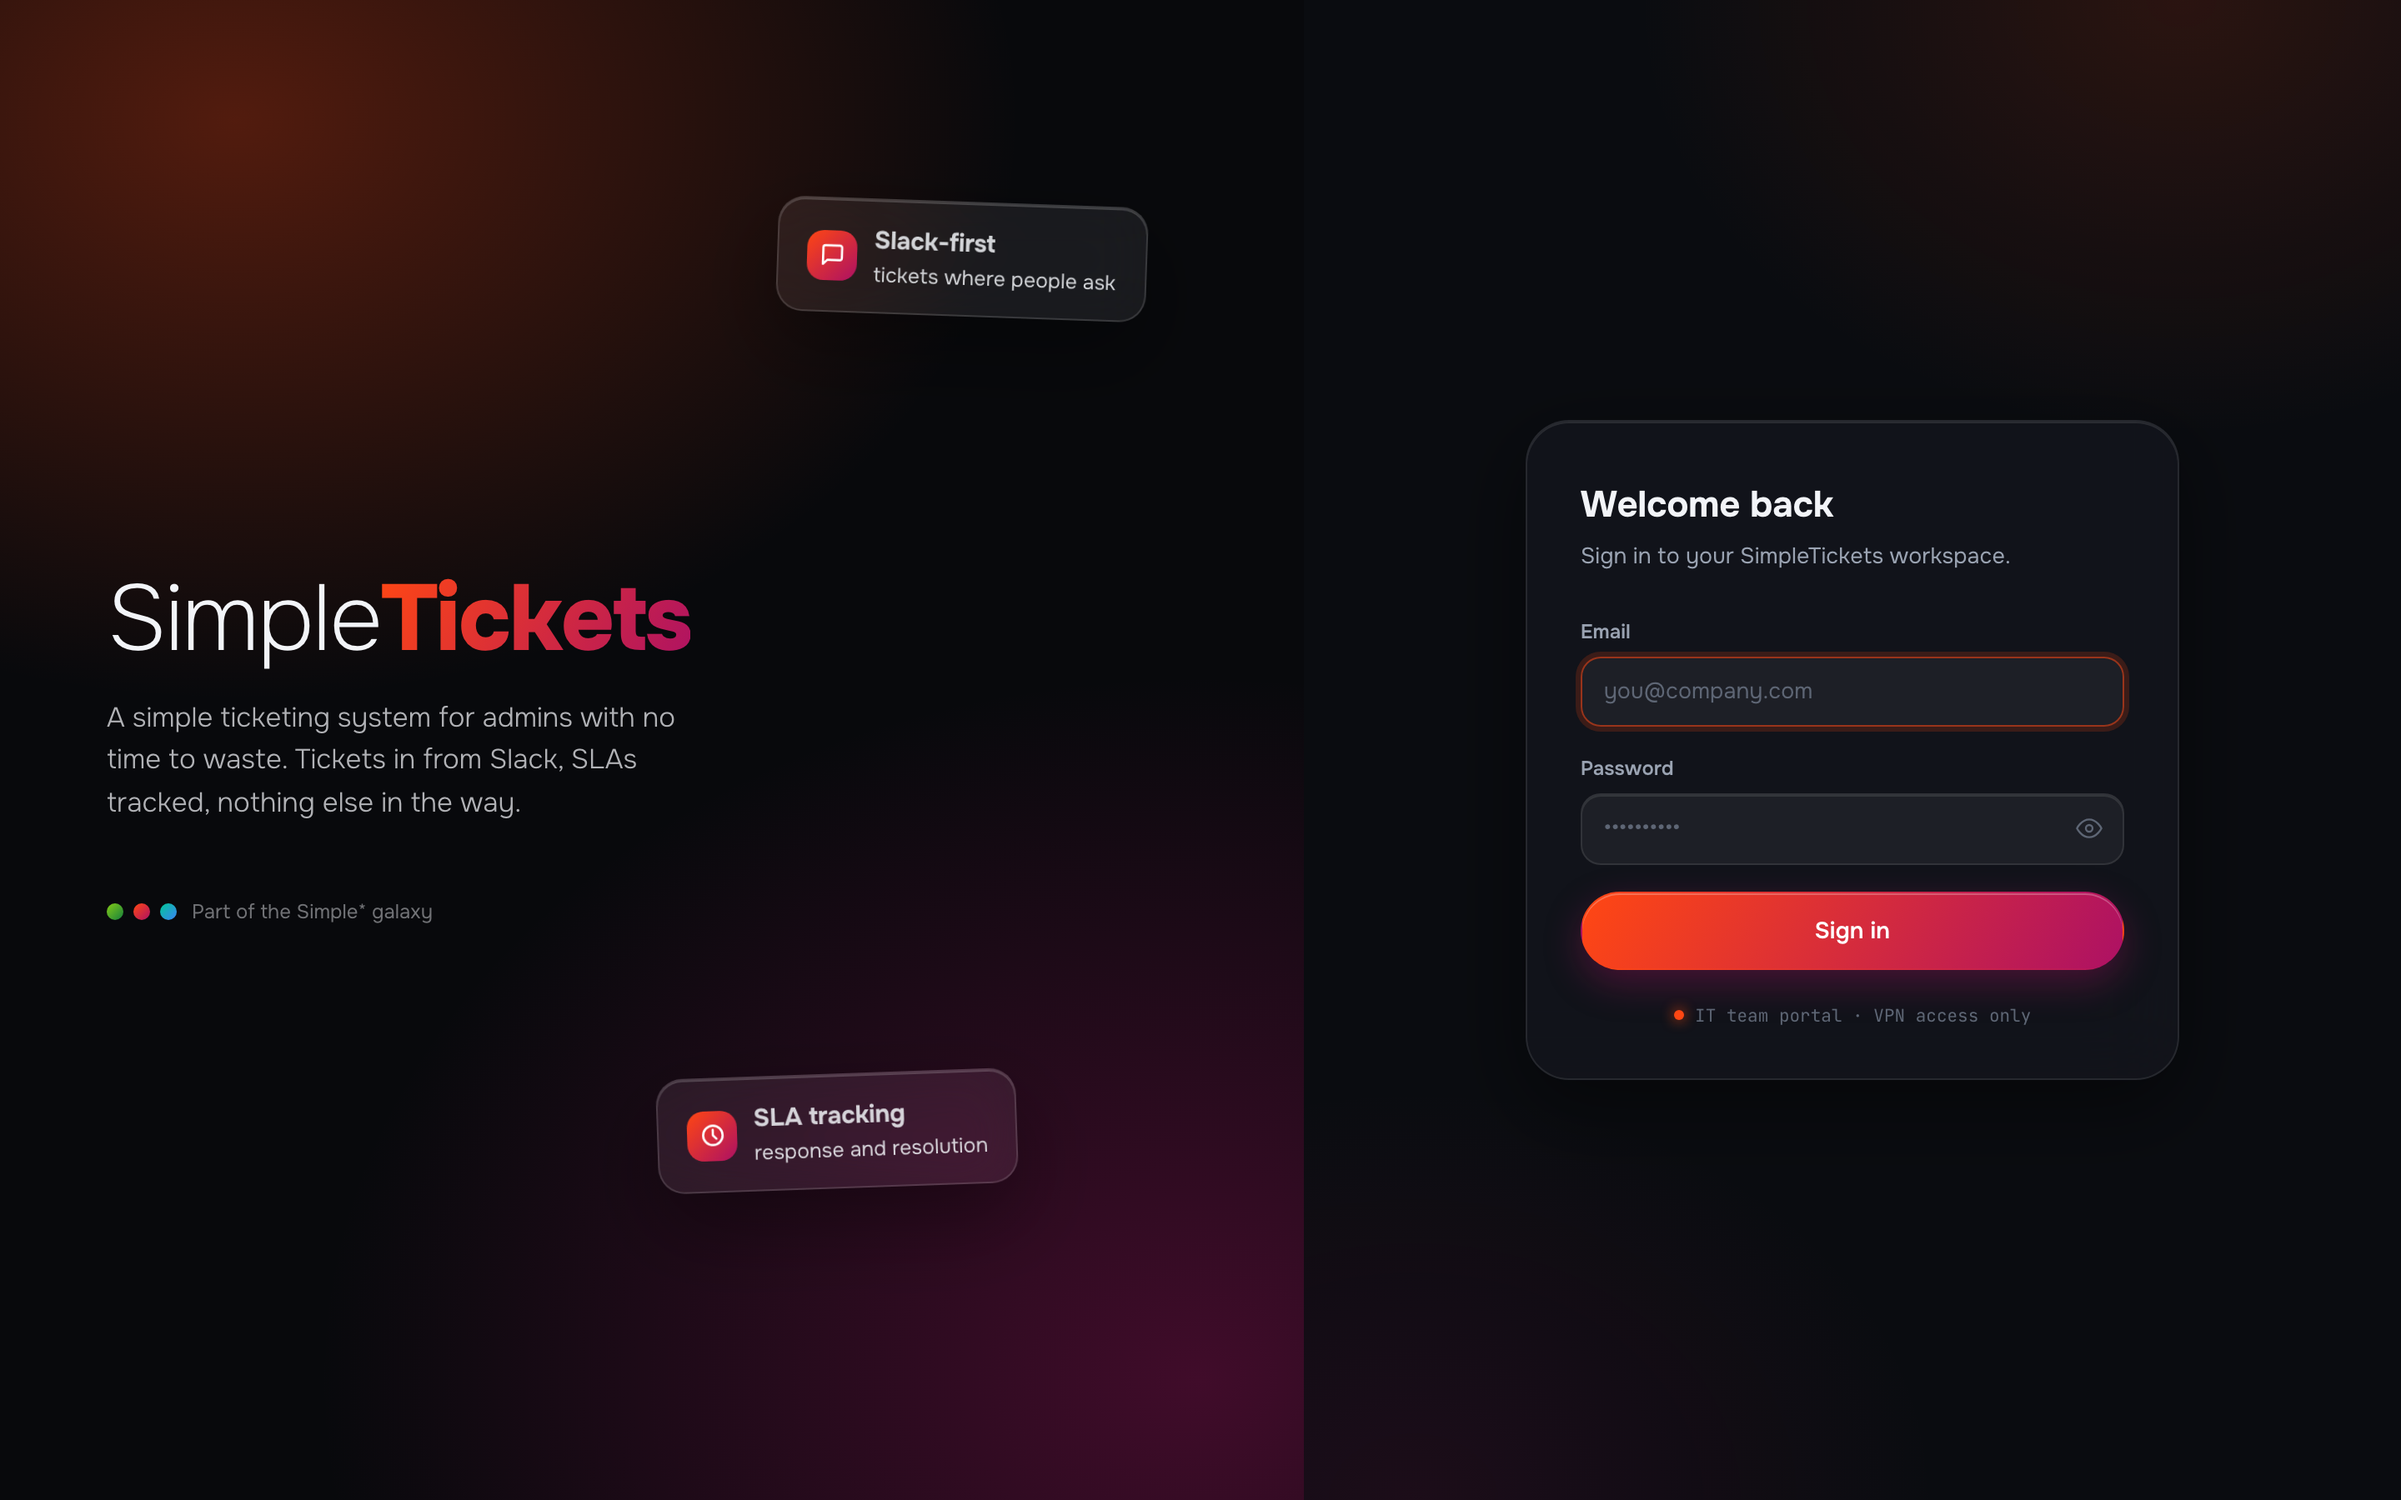
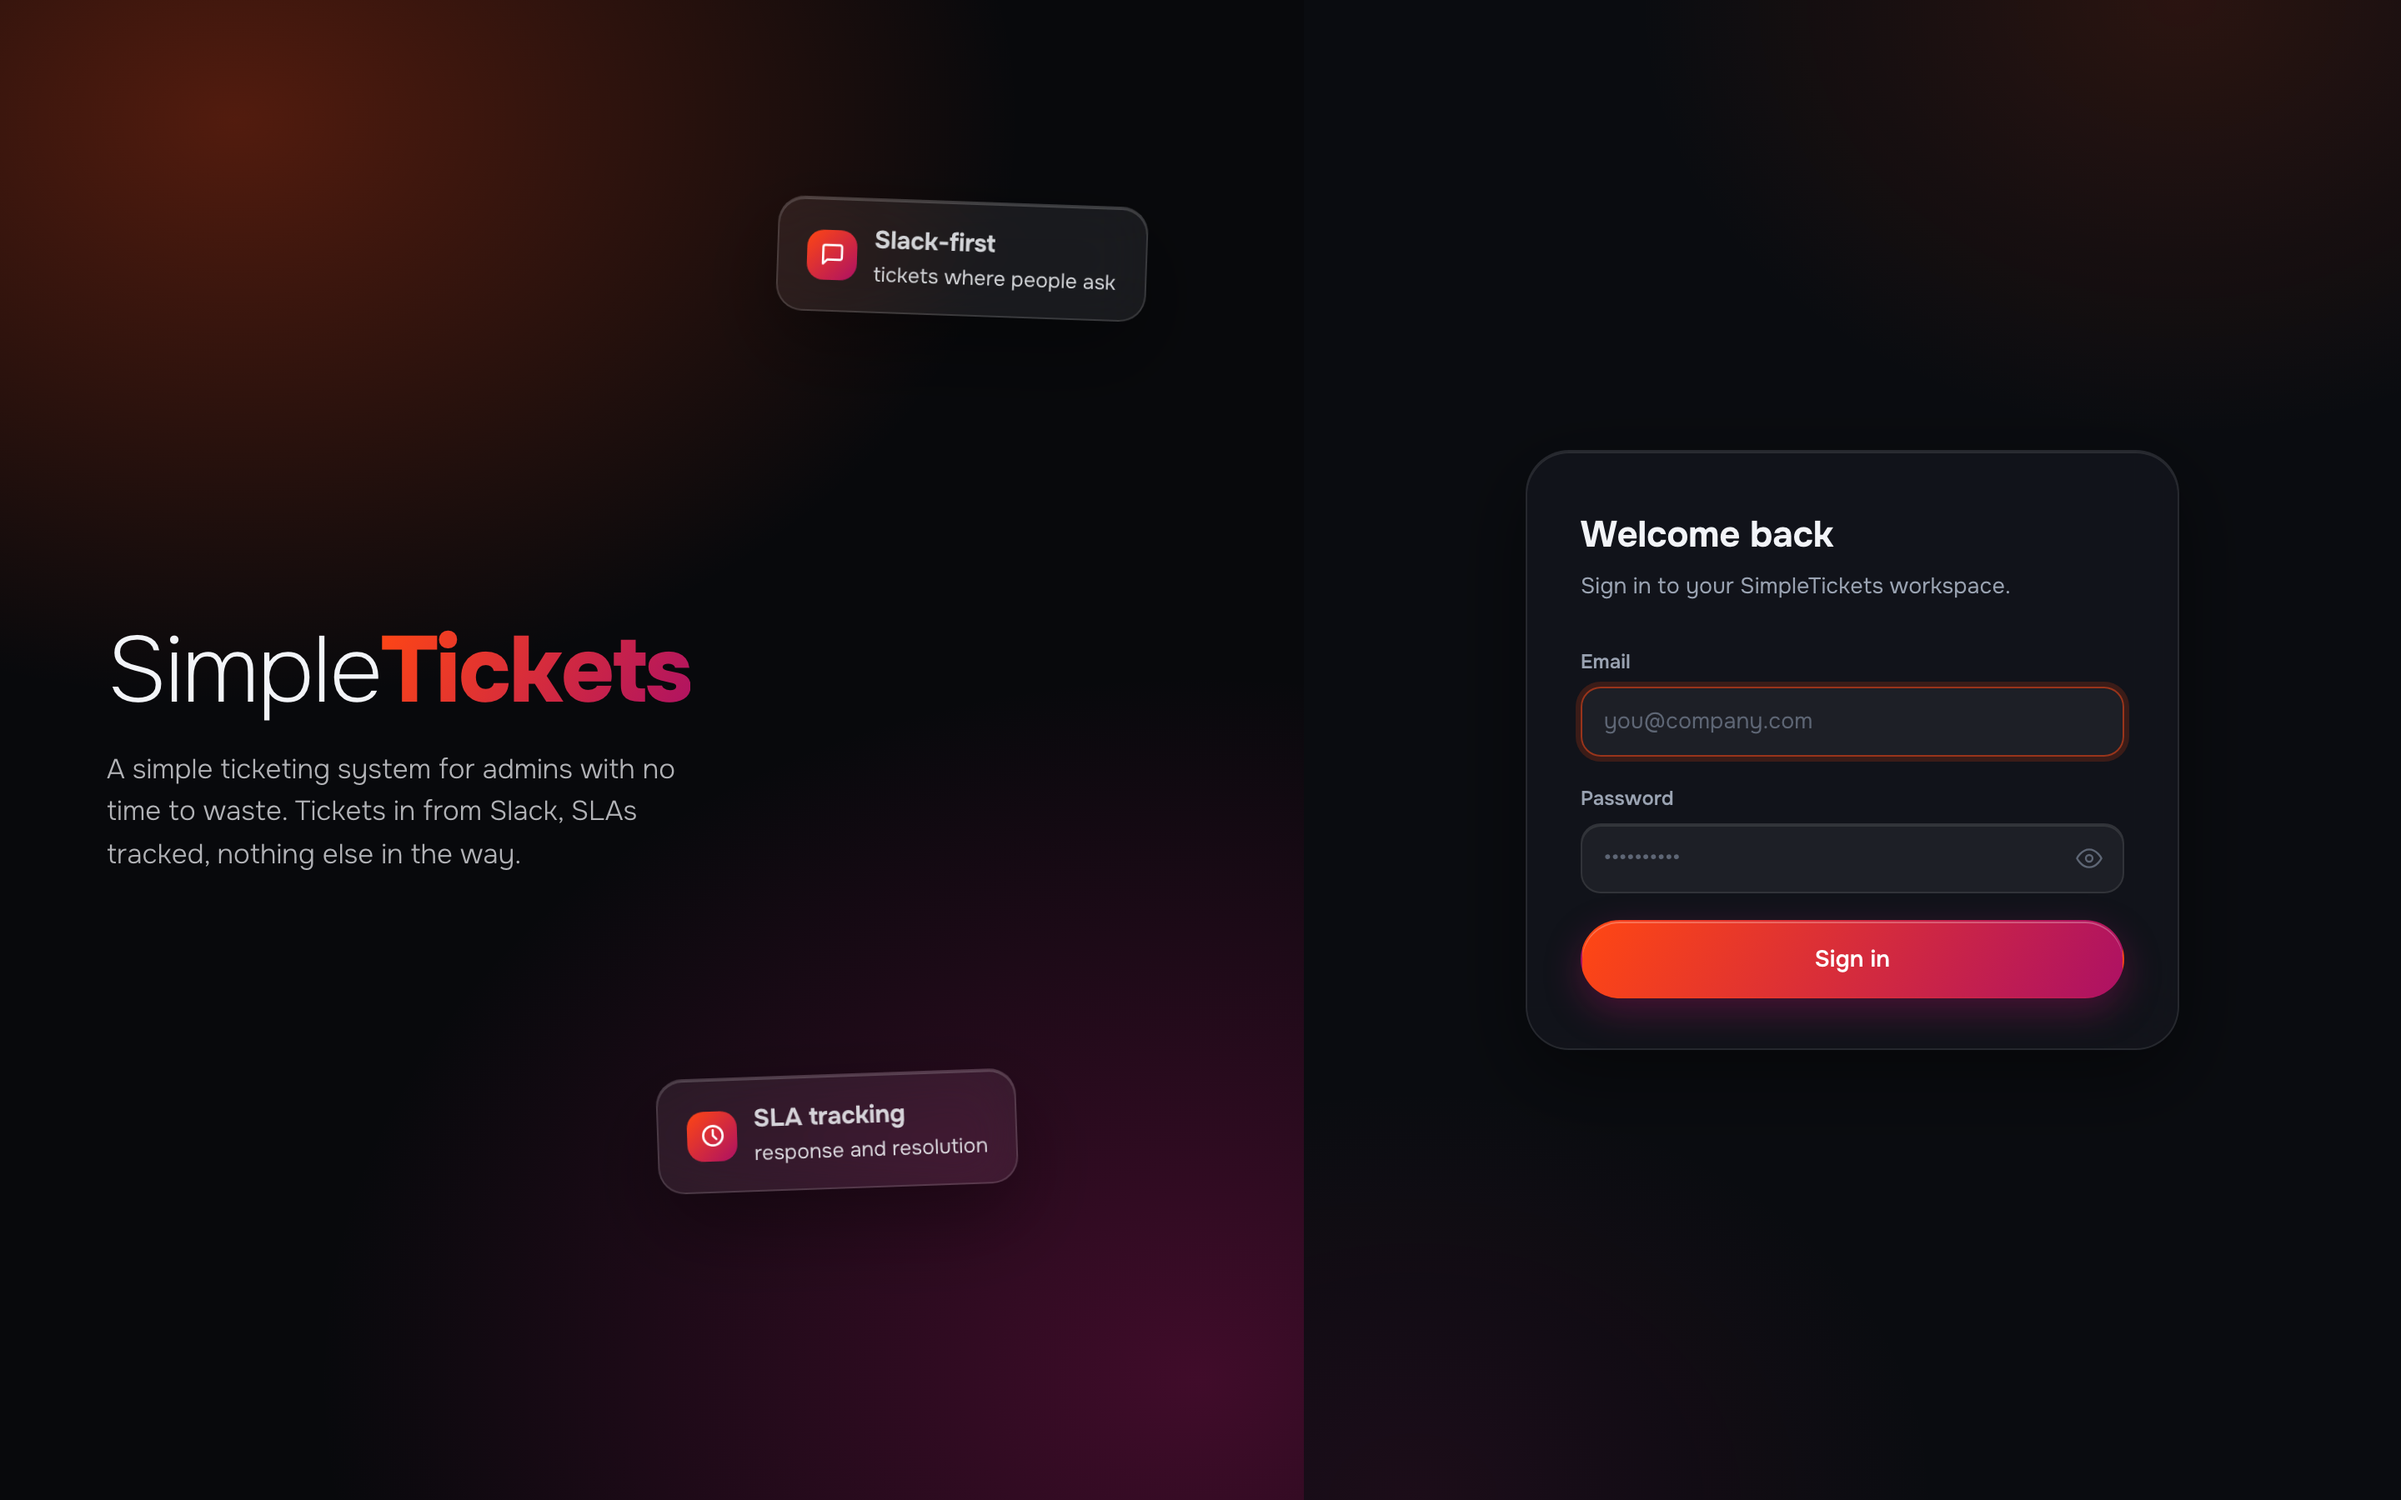
fix: drop VPN note and galaxy tagline from login

Changed region(s): [[0.0312, 0.3733, 0.3125, 0.6222], [0.6562, 0.3111, 0.9062, 0.56], [0.6562, 0.5911, 0.9062, 0.6844]]

diff --git a/frontend/src/pages/Login.tsx b/frontend/src/pages/Login.tsx
@@ -49,15 +49,6 @@ export default function Login() {
           A simple ticketing system for admins with no time to waste. Tickets in
           from Slack, SLAs tracked, nothing else in the way.
         </p>
-        <div className="family">
-          <span className="dots">
-            <i style={{ '--c1': '#84CC16', '--c2': '#15803D' } as React.CSSProperties} />
-            <i style={{ '--c1': '#FF4713', '--c2': '#AD1164' } as React.CSSProperties} />
-            <i style={{ '--c1': '#00C896', '--c2': '#3B82F6' } as React.CSSProperties} />
-          </span>
-          Part of the Simple* galaxy
-        </div>
-
         <div className="shard s1">
           <span className="ico">
             <svg width="15" height="15" viewBox="0 0 18 18" fill="none" stroke="currentColor" strokeWidth="1.6" strokeLinecap="round" strokeLinejoin="round">
@@ -161,8 +152,6 @@ export default function Login() {
               'Sign in'
             )}
           </button>
-
-          <p className="ssonote"><i />IT team portal · VPN access only</p>
         </form>
       </section>
     </div>
